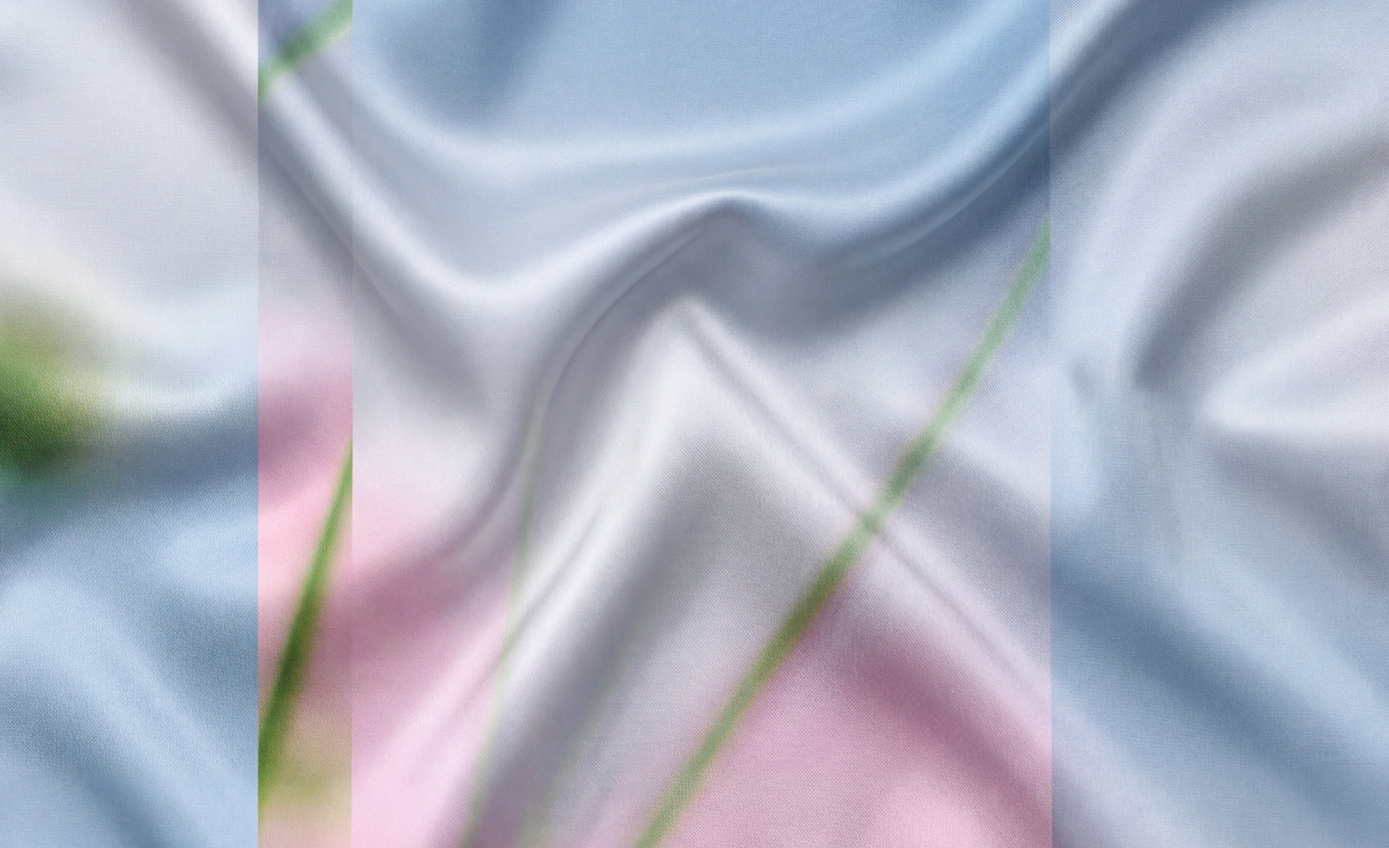
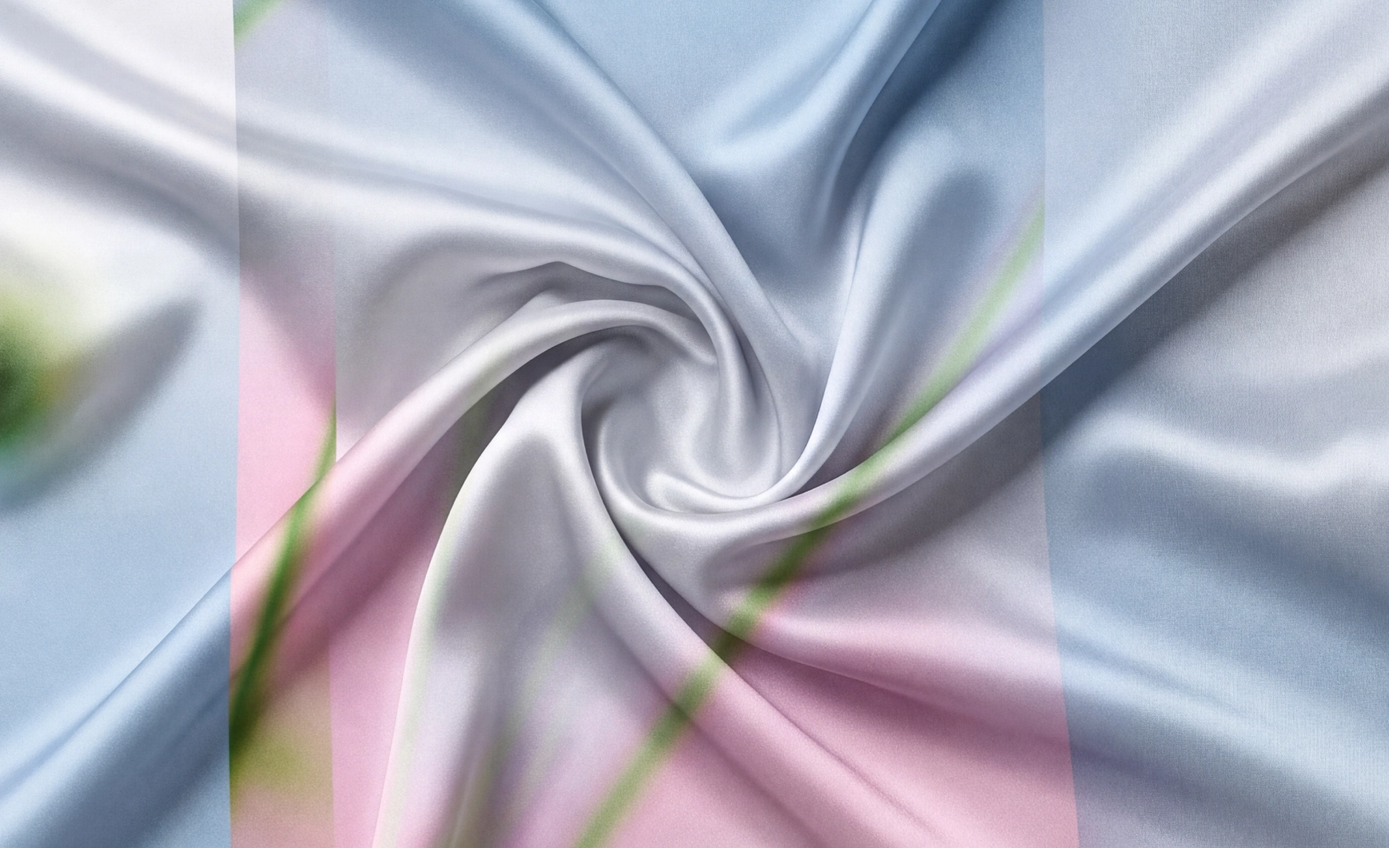
Basarab: new satin slide (Figma 1:732)
Re-exported at 2x; q98 desktop (the film grain smears into blotches at
q90 and softens at q94), q97 1077px phone file. 699KB / 171KB, lighter
than the slide it replaces. Cache-bust to ?v=5.

Claude-Session: https://claude.ai/code/session_01MeEtXqiQLiDk5aa1kcigUi

diff --git a/index.html b/index.html
@@ -2910,7 +2910,7 @@
       <div class="case__media case__media--story"><img loading="lazy" src="images/basarab-15.webp?v=6" alt="" width="1016" height="1200" /><video muted loop playsinline preload="none" data-lazy-play width="1016" height="1200"><source src="videos/basarab-stories.mp4?v=2" type="video/mp4" /></video></div>
     </div>
 
-    <div class="case__media reveal"><img loading="lazy" src="images/basarab-16.webp?v=4" srcset="images/basarab-16-1077.webp?v=4 1077w, images/basarab-16.webp?v=4 2030w" sizes="(max-width: 700px) 100vw, 1015px" alt="" width="2030" height="1240" /></div>
+    <div class="case__media reveal"><img loading="lazy" src="images/basarab-16.webp?v=5" srcset="images/basarab-16-1077.webp?v=5 1077w, images/basarab-16.webp?v=5 2030w" sizes="(max-width: 700px) 100vw, 1015px" alt="" width="2030" height="1240" /></div>
 
     <div class="case__media reveal" style="--mh:22.438rem"><img loading="lazy" src="images/basarab-17.webp?v=4" alt="" width="2030" height="1240" /><img loading="lazy" class="case__media-mobile" src="images/basarab-m17.webp?v=4" alt="" width="1077" height="1077" /></div>
 
